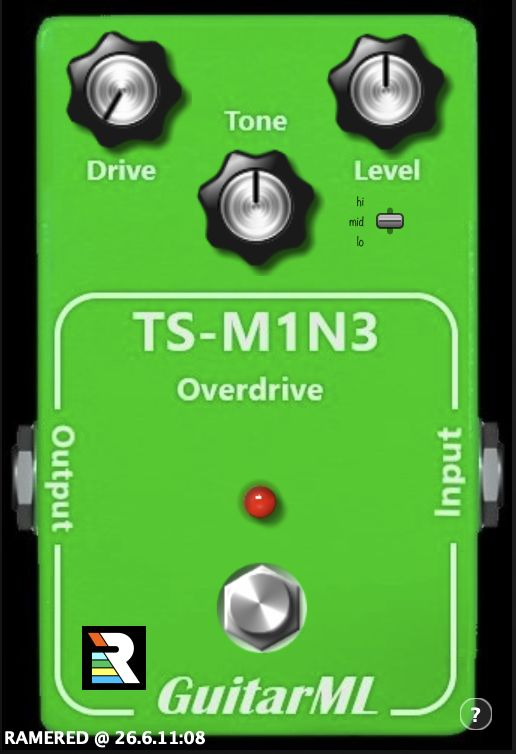
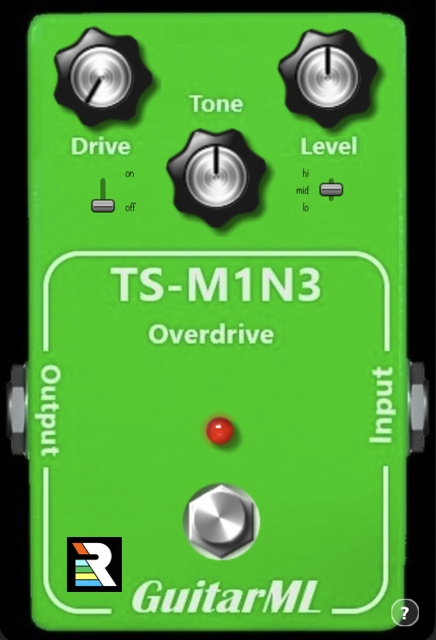
docs: move ramer.md to private dev folder and update README with side-by-side images

diff --git a/README.md b/README.md
@@ -5,10 +5,10 @@
 > [!IMPORTANT]
 > **Zero Telemetry Guarantee**: This plugin contains absolutely zero telemetry, zero analytics, zero usage tracking, and zero network connectivity. It runs 100% offline and respects your privacy. Ramer Digital defends zero telemetry.
 
-> [!NOTE]
-> For developer guidelines, technical mapping, dependencies, functional parameters, and license compliance rules, refer to [ramer.md](ramer.md).
-
-![app](resources/app.jpg)
+<p align="center">
+  <img src="resources/app.jpg" alt="TS-M1N3 Front" width="35%" />
+  <img src="resources/app2.jpg" alt="TS-M1N3 Back" width="35%" />
+</p>
 
 **TS-M1N3** is a guitar plugin clone of the legendary TS-9 Tubescreamer analog overdrive pedal, fine-tuned exclusively for Apple Silicon. 
 